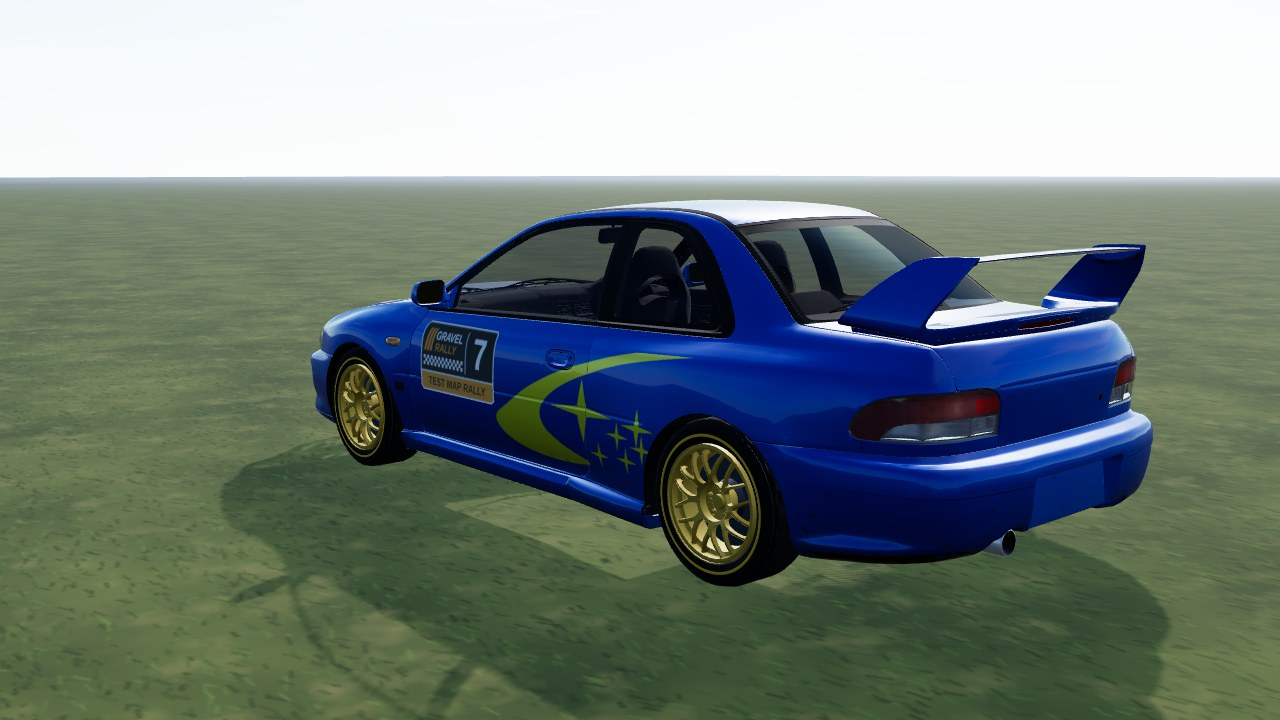
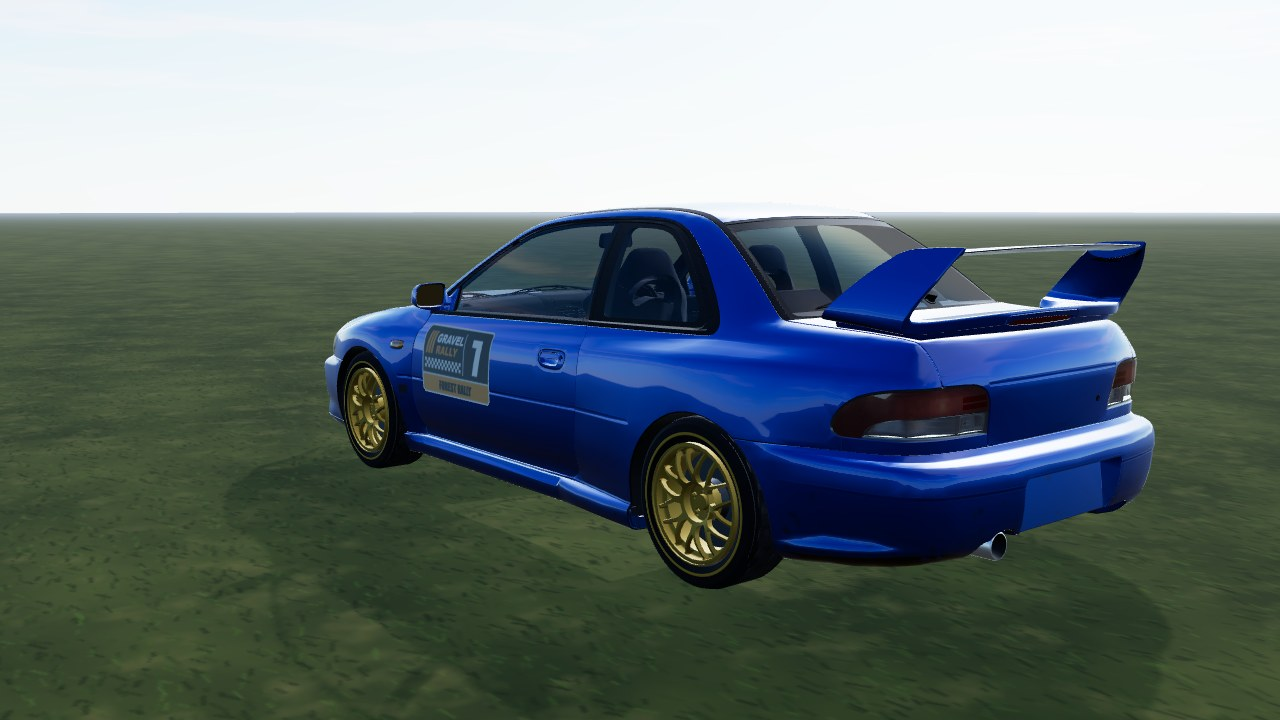
Rally: 22B screenshots without the side graphic, stale test wording
- Retake the 22B screenshots with the plain livery
- 22B in-game description no longer mentions the star livery
- Released cars no longer say "Test car" in their file comments
- THIRD-PARTY.md and the Kaboom README name the Poly Haven environment light and detail textures

diff --git a/src/games/rally/cars/merc-190/merc-190.ts b/src/games/rally/cars/merc-190/merc-190.ts
@@ -72,7 +72,7 @@ const BRAKES: BrakeSet = {
 
 /**
  * Mercedes 190E (`merc_190`) - the 2.5-16 Evolution homologation saloon: a CC BY Sketchfab model kept as it is (flat paint, own
- * cockpit, lamps and rim), mapped to game parts by material only (model.source.json); its badges are removed. Test car (release.ts).
+ * cockpit, lamps and rim), mapped to game parts by material only (model.source.json); its badges are removed.
  */
 export const merc190: CarDef = {
   id: 'merc_190',

diff --git a/src/games/rally/cars/subie-22b/subie-22b.ts b/src/games/rally/cars/subie-22b/subie-22b.ts
@@ -73,7 +73,7 @@ export const subie22b: CarDef = {
   name: 'Subaru WRX STI 22B',
   className: 'Group A · AWD',
   description:
-    'Blue 90s turbo coupe with the works star livery: flat-four boxer rumble, grippy AWD, a little heavy on the nose.',
+    'Blue 90s turbo coupe: flat-four boxer rumble, grippy AWD, a little heavy on the nose.',
   sources: [
     {
       label: '"1998 Subaru Impreza 22B STi" by 007 (Sketchfab)',

diff --git a/src/games/rally/cars/ford-gt3/ford-gt3.ts b/src/games/rally/cars/ford-gt3/ford-gt3.ts
@@ -74,7 +74,7 @@ const BRAKES: BrakeSet = {
 
 /**
  * Ford Mustang GT3 (`ford_gt3`) - the 2024 customer GT3 racer: a CC BY Sketchfab model kept as it is (flat paint, own cockpit,
- * lamps and rim), mapped to game parts by material only (model.source.json). Test car (release.ts).
+ * lamps and rim), mapped to game parts by material only (model.source.json).
  */
 export const fordGt3: CarDef = {
   id: 'ford_gt3',

diff --git a/src/games/rally/cars/peugeot-206/peugeot-206.ts b/src/games/rally/cars/peugeot-206/peugeot-206.ts
@@ -68,7 +68,7 @@ const BRAKES: BrakeSet = {
 
 /**
  * Peugeot 206 (`peugeot_206`) - a tuned widebody 206 GTi: a CC BY Sketchfab model kept as it is (own cockpit, lamps and rim,
- * flat paint), mapped to game parts by material only (model.source.json). Test car (release.ts).
+ * flat paint), mapped to game parts by material only (model.source.json).
  */
 export const peugeot206: CarDef = {
   id: 'peugeot_206',

diff --git a/src/games/rally/cars/subie-wrx-sti/subie-wrx-sti.ts b/src/games/rally/cars/subie-wrx-sti/subie-wrx-sti.ts
@@ -68,7 +68,7 @@ const BRAKES: BrakeSet = {
 
 /**
  * Subaru WRX STI (`subie_wrx_sti`) - the 2019 STI: a CC BY Sketchfab model kept as it is (own cockpit, lamps and rim, flat
- * paint), mapped to game parts by material (model.source.json). Test car (release.ts).
+ * paint), mapped to game parts by material (model.source.json).
  */
 export const subieWrxSti: CarDef = {
   id: 'subie_wrx_sti',

diff --git a/src/games/rally/cars/audi-rs6/audi-rs6.ts b/src/games/rally/cars/audi-rs6/audi-rs6.ts
@@ -68,7 +68,7 @@ const BRAKES: BrakeSet = {
 
 /**
  * Audi RS6 (`audi_rs6`) - the C8 RS6 Avant: a CC BY Sketchfab model kept as it is (own cockpit, lamps and rim, flat paint),
- * mapped to game parts by material (model.source.json). Test car (release.ts).
+ * mapped to game parts by material (model.source.json).
  */
 export const audiRs6: CarDef = {
   id: 'audi_rs6',

diff --git a/THIRD-PARTY.md b/THIRD-PARTY.md
@@ -18,7 +18,7 @@ README files carry the same information in more detail. Keep this file current w
 | [three.js](https://threejs.org/)                                                | MIT              | rendering (runtime)               |
 | Rsbuild, Rspack, Rstest, Rslint, TypeScript, Prettier, happy-dom, meshoptimizer | MIT / Apache-2.0 | build and test tooling (dev only) |
 
-3, 2, 1 Kabooom (`src/games/kaboom/`) uses nothing third-party except its UI fonts (below): its critters, arenas, effects and sounds are original and procedural.
+3, 2, 1 Kabooom (`src/games/kaboom/`) uses nothing third-party except its UI fonts and the CC0 Poly Haven environment light and detail textures (below): its critters, arenas, effects and sounds are original and procedural.
 
 The only bundled font files are the UI faces of Gravel Rally, Hole Island and 3, 2, 1 Kabooom and the portal's (below); sounds are synthesised with WebAudio and no music file is committed. Most textures
 are painted on canvases at runtime; the texture files that ship are listed with their licences below (building tiles,

diff --git a/src/games/kaboom/README.md b/src/games/kaboom/README.md
@@ -60,7 +60,7 @@ The Large arena (up to 8 players) is bigger than the screen: the camera follows 
 
 ## Credits and licence
 
-All art, code and sound are original and procedural; the only third-party files are the UI fonts (SIL Open Font License) and one small CC0 Poly Haven HDRI per level for the environment light (see [THIRD-PARTY.md](../../../THIRD-PARTY.md)). Code, procedural art and sound, docs and
+All art, code and sound are original and procedural; the only third-party files are the UI fonts (SIL Open Font License) and, from Poly Haven (CC0), one small HDRI (environment light) and one detail tile per level (see [THIRD-PARTY.md](../../../THIRD-PARTY.md)). Code, procedural art and sound, docs and
 screenshots: [PolyForm Noncommercial 1.0.0](../../../LICENSE).
 
 Details (rules, architecture, performance): [DETAILS.md](DETAILS.md).
